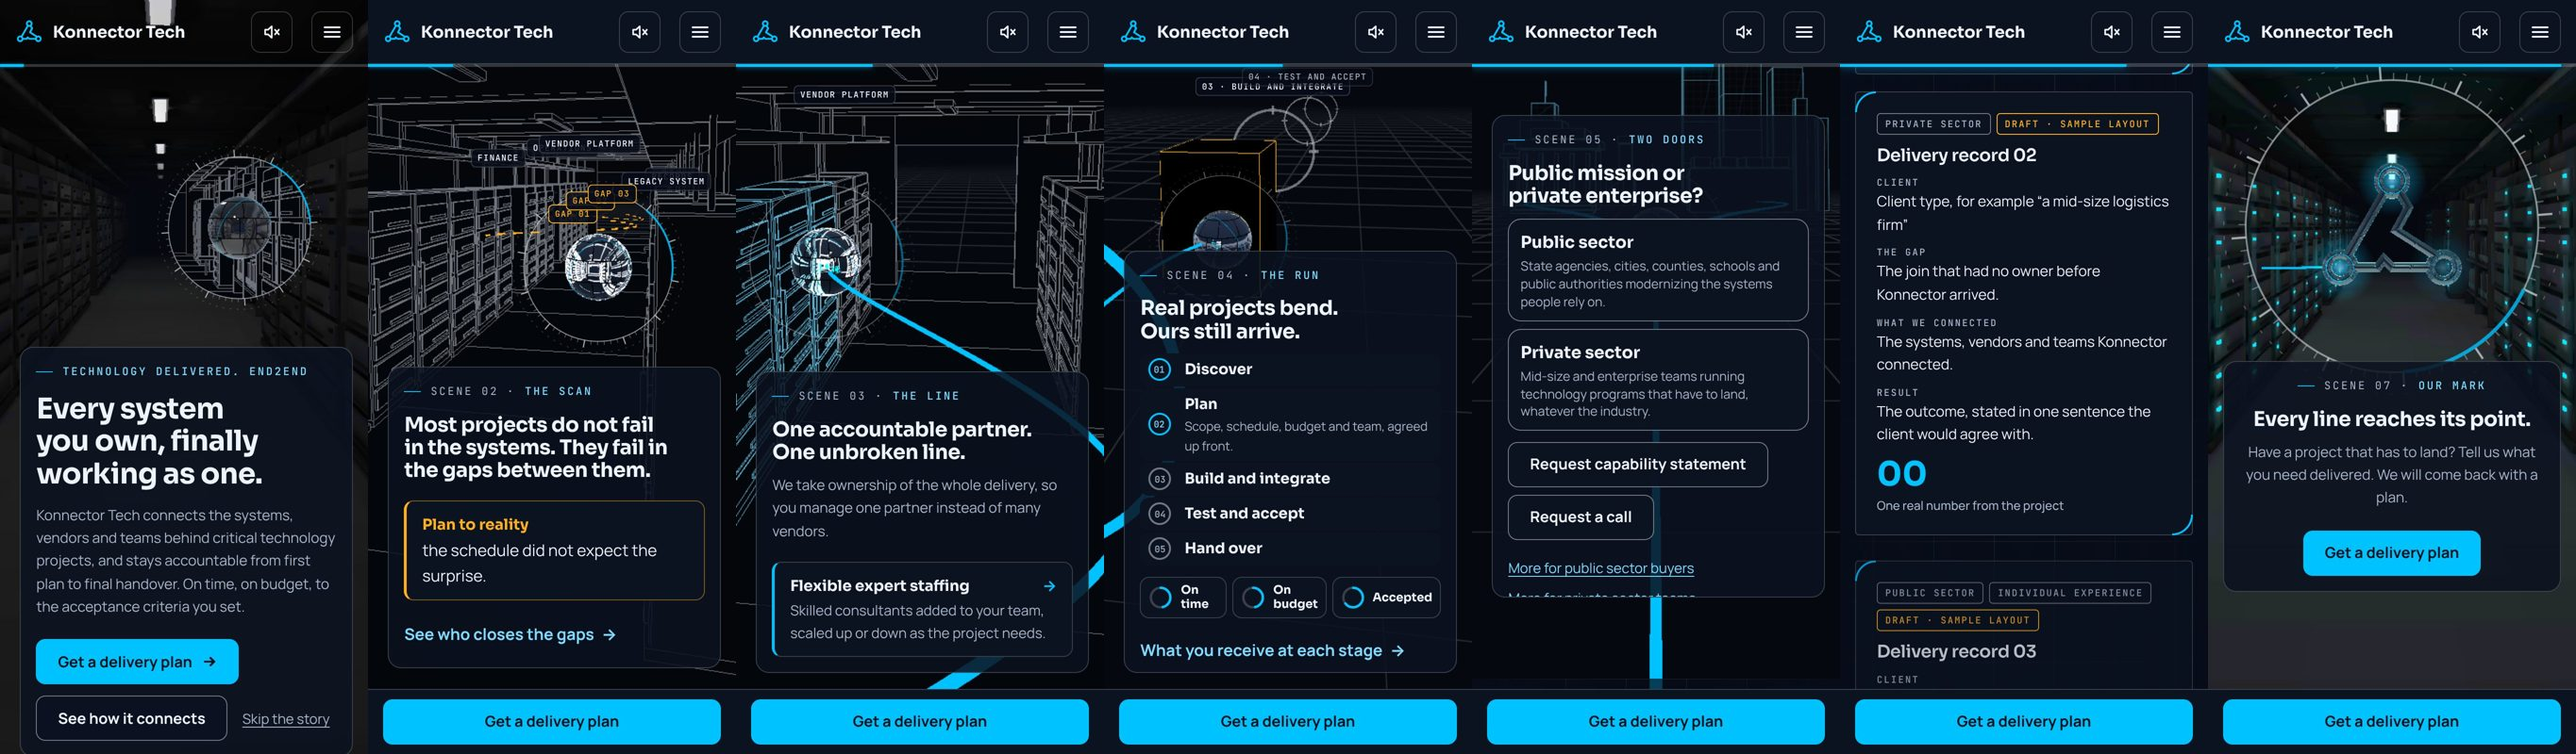
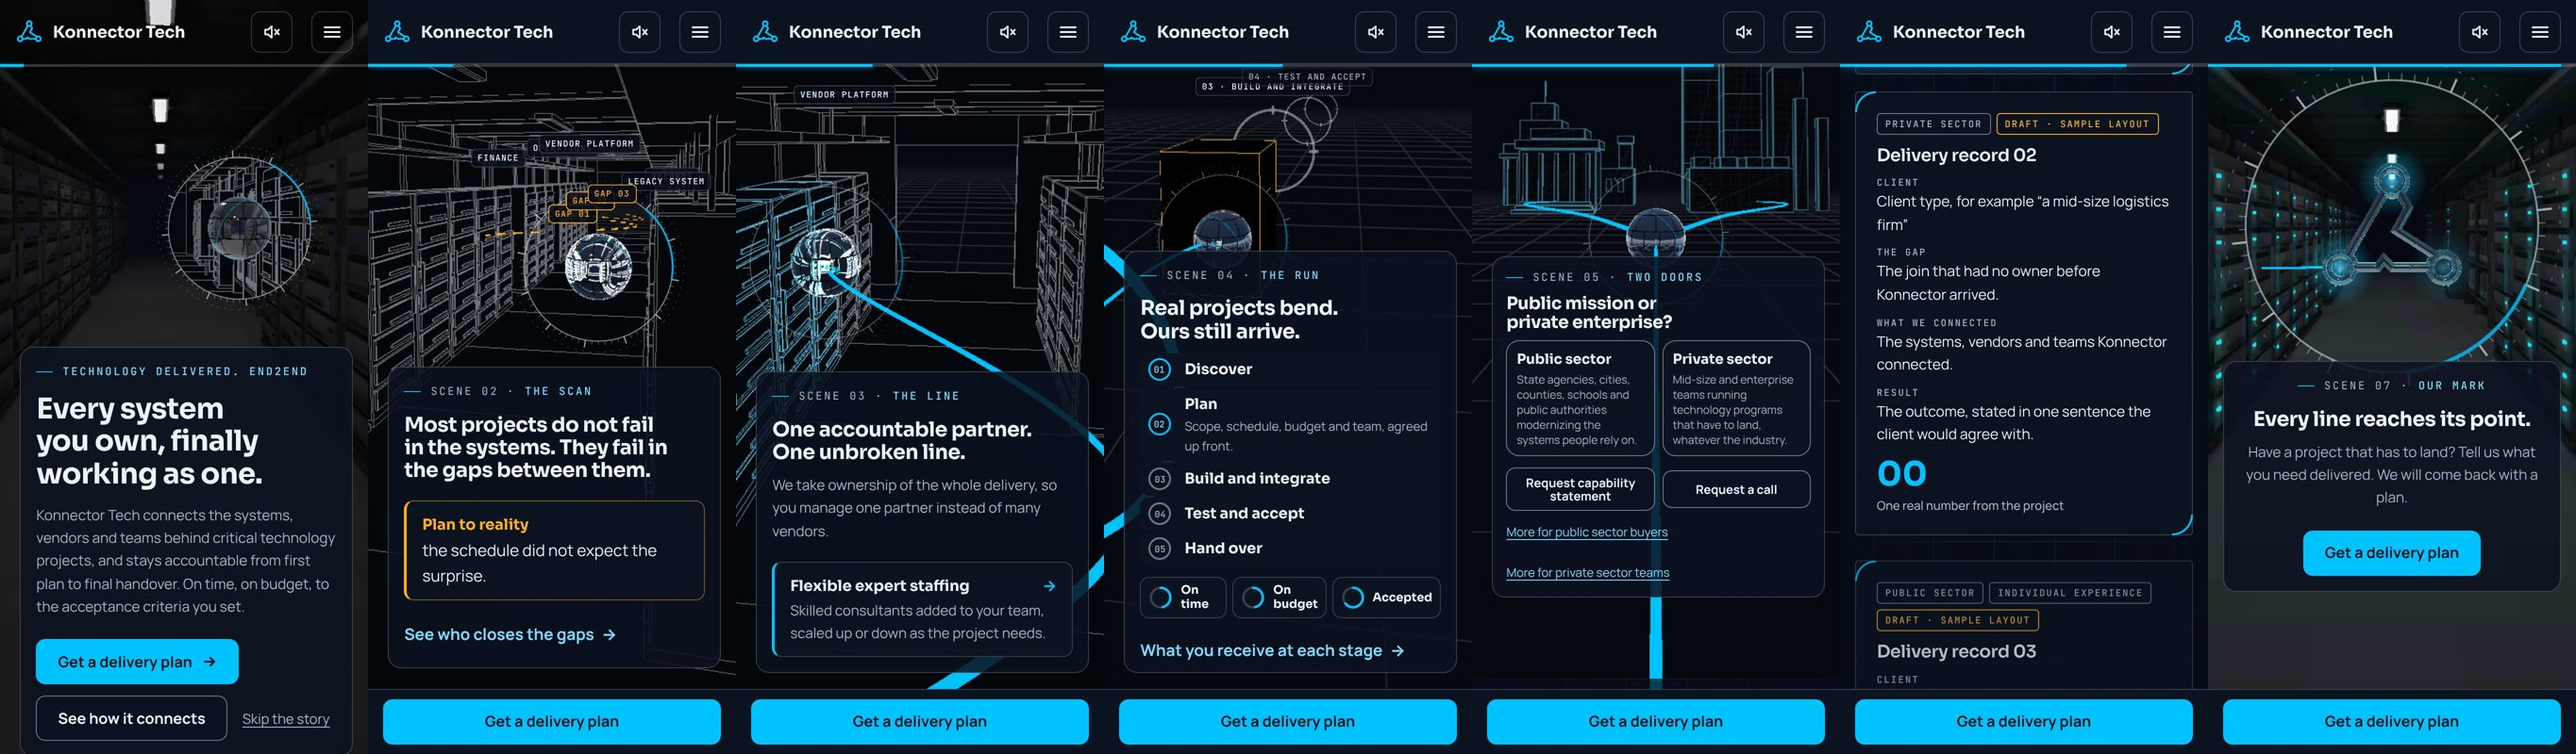
Phase 3: phone scene 5 fits above a shorter card; record the gate review and sign-off
Claude-Session: https://claude.ai/code/session_01FyMLZ1RAVopRCtw5MBFVSF

diff --git a/rebuild/src/app/globals.css b/rebuild/src/app/globals.css
@@ -422,3 +422,17 @@ html[data-mode='story'] .rail a.is-current + .rail-gates ~ *, html[data-mode='st
   html[data-story-ready] [data-scene='3'] .service-list b { font-size: 0.86rem; }
   html[data-story-ready] [data-scene='3'] .service-list span { font-size: 0.76rem; line-height: 1.35; }
 }
+
+/* Phones, scene 5: a short card so the skyline, the sphere and the split line stay in view above it */
+@media (max-width: 860px) {
+  html[data-mode='story'] [data-scene='5'] .panel { max-height: 50svh; padding: 12px 14px; }
+  html[data-mode='story'] [data-scene='5'] .panel h2 { font-size: 1.15rem; margin-bottom: 0.3em; }
+  html[data-mode='story'] [data-scene='5'] .hud { margin-bottom: 8px; }
+  html[data-mode='story'] [data-scene='5'] .doors { grid-template-columns: 1fr 1fr; gap: 8px; margin-top: 8px; }
+  html[data-mode='story'] [data-scene='5'] .door { padding: 8px 10px; }
+  html[data-mode='story'] [data-scene='5'] .door b { font-size: 0.92rem; }
+  html[data-mode='story'] [data-scene='5'] .door span { font-size: 0.74rem; line-height: 1.35; }
+  html[data-mode='story'] [data-scene='5'] .ctas { flex-wrap: nowrap; }
+  html[data-mode='story'] [data-scene='5'] .ctas .btn { min-height: 40px; padding: 8px 10px; font-size: 0.8rem; flex: 1 1 0; text-align: center; }
+  html[data-mode='story'] [data-scene='5'] .panel > p.muted { margin-top: 8px !important; font-size: 0.8rem !important; display: flex; gap: 14px; flex-wrap: wrap; }
+}

diff --git a/rebuild/docs/phase-3-gate.md b/rebuild/docs/phase-3-gate.md
@@ -1,7 +1,21 @@
 # Phase 3 gate: grey-box story
 
 **Gate:** the story reads clearly on a desktop and a phone.
-**My assessment:** desktop yes. Phone mostly, with scene 5 still open. The art is first-pass and not locked.
+**Result: signed off on 11 Nov 2026**, at the owner's request ("if it fits the script and overall plan, go ahead with the sign-off"),
+after the one failing item was fixed. The art is first-pass and not locked.
+
+**Review against the script's Phase 3:** "Build the scroll timeline, camera path, sweep, lens and line using simple
+grey shapes in place of final art. Gate: the story reads clearly on a desktop and a phone."
+
+| Script item | Fits? |
+| --- | --- |
+| Scroll timeline: one scroll value, native scrolling, sticky sections, wheel never taken over | Yes |
+| Camera path through all seven scenes, inside the room in scenes 2 and 3 | Yes |
+| Sweep, driven by the scroll, forward in scene 2 and in reverse in scene 7 | Yes |
+| Lens on the sphere, draggable on desktop | Yes (drag not exercised by a test) |
+| The line, drawn in step with the scroll, never broken | Yes |
+| Reads clearly on a desktop | Yes |
+| Reads clearly on a phone | Yes after the scene 5 fix below. Two limits remain and are listed, not hidden. |
 
 Frames were captured from the running build: desktop at 1600 × 900 on the Full tier, phone at 390 × 800 on the Light tier.
 All 35 browser tests, 10 form tests and the budgets pass.
@@ -36,9 +50,10 @@ All 35 browser tests, 10 form tests and the budgets pass.
 
 | Scene | Reads clearly? |
 | --- | --- |
-| 1, 3, 4, 6, 7 | Yes |
+| 1, 4, 6, 7 | Yes |
 | 2 The scan | Mostly. The five labels crowd in a corridor this narrow. |
-| 5 Two doors | **No.** The text card is tall and covers the skyline and the sphere. It needs a shorter card or a taller scene. |
+| 5 Two doors | Yes, after a fix: the card is now short enough that the skyline, the sphere and the split line show above it. |
+| 3 The line | Yes, with a limit: on a phone the service panels show one at a time in the text card, not on the line. |
 
 ## Not verified
 
